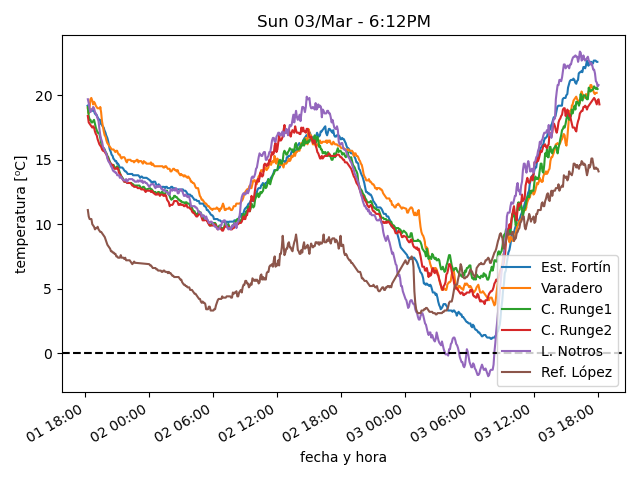
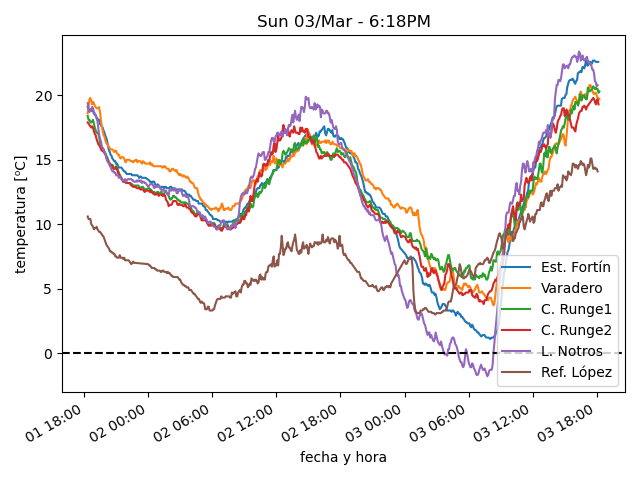
actualiza datos

diff --git a/estaciones/estacion3.html b/estaciones/estacion3.html
@@ -18,32 +18,32 @@
     </tr>
     <tr>
      <td class="stats_data">
-      5:59PM
+      6:14PM
      </td>
     </tr>
     <tr>
      <td class="stats_data">
-      20.5
+      20.3
      </td>
     </tr>
     <tr>
      <td class="stats_data">
-      8.0
+      7.8
      </td>
     </tr>
     <tr>
      <td class="stats_data">
-      44.4
+      44.1
      </td>
     </tr>
     <tr>
      <td class="stats_data">
-      1010.02
+      1009.92
      </td>
     </tr>
     <tr>
      <td class="stats_data">
-      4.0/6.1 WNW
+      4.1/6.3 W
      </td>
     </tr>
     <tr>
@@ -53,12 +53,12 @@
     </tr>
     <tr>
      <td class="stats_data">
-      4.0
+      3.0
      </td>
     </tr>
     <tr>
      <td class="stats_data">
-      357.8
+      307.9
      </td>
     </tr>
    </tbody>

diff --git a/estaciones/estacion2.html b/estaciones/estacion2.html
@@ -18,22 +18,22 @@
     </tr>
     <tr>
      <td class="stats_data">
-      5:54PM
+      6:14PM
      </td>
     </tr>
     <tr>
      <td class="stats_data">
-      20.2
+      19.7
      </td>
     </tr>
     <tr>
      <td class="stats_data">
-      10.1
+      10.0
      </td>
     </tr>
     <tr>
      <td class="stats_data">
-      52.4
+      53.5
      </td>
     </tr>
     <tr>
@@ -43,7 +43,7 @@
     </tr>
     <tr>
      <td class="stats_data">
-      14.6/18.1 NW
+      17.6/22.0 NW
      </td>
     </tr>
     <tr>
@@ -53,12 +53,12 @@
     </tr>
     <tr>
      <td class="stats_data">
-      4.0
+      3.0
      </td>
     </tr>
     <tr>
      <td class="stats_data">
-      546.6
+      321.9
      </td>
     </tr>
    </tbody>

diff --git a/estaciones/estacion1.html b/estaciones/estacion1.html
@@ -18,7 +18,7 @@
     </tr>
     <tr>
      <td class="stats_data">
-      5:58PM
+      6:08PM
      </td>
     </tr>
     <tr>
@@ -28,12 +28,12 @@
     </tr>
     <tr>
      <td class="stats_data">
-      0.7
+      1.0
      </td>
     </tr>
     <tr>
      <td class="stats_data">
-      23.5
+      24.0
      </td>
     </tr>
     <tr>
@@ -43,7 +43,7 @@
     </tr>
     <tr>
      <td class="stats_data">
-      11.3/19.3 WSW
+      13.7/20.1 SW
      </td>
     </tr>
     <tr>
@@ -53,12 +53,12 @@
     </tr>
     <tr>
      <td class="stats_data">
-      1.5
+      1.3
      </td>
     </tr>
     <tr>
      <td class="stats_data">
-      392.0
+      360.0
      </td>
     </tr>
    </tbody>
